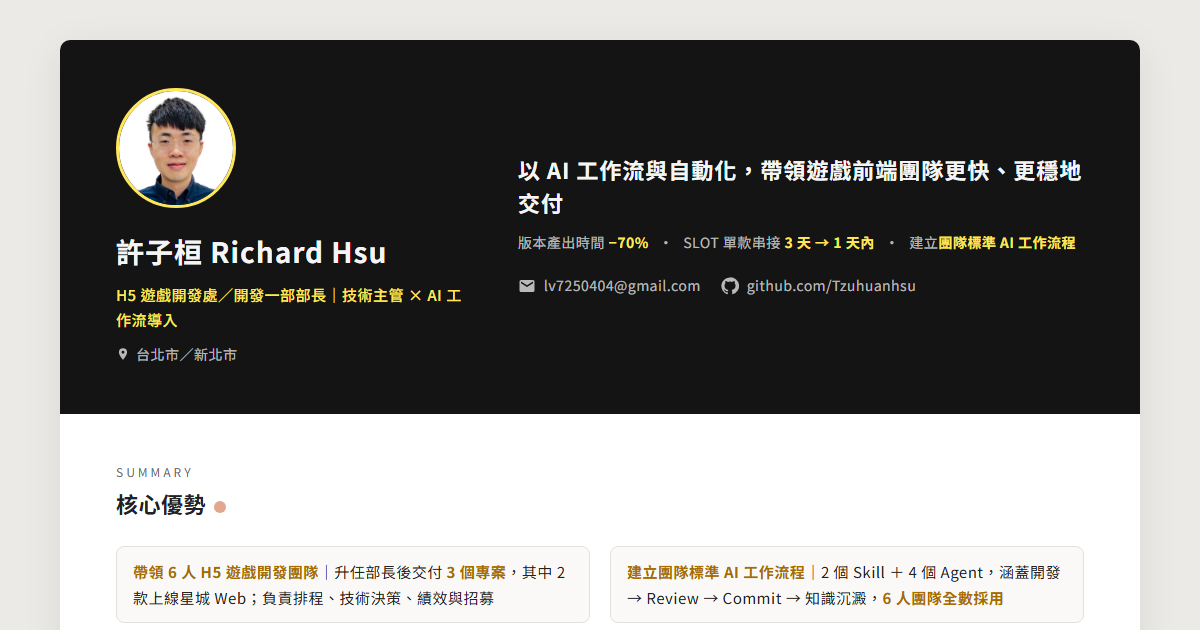
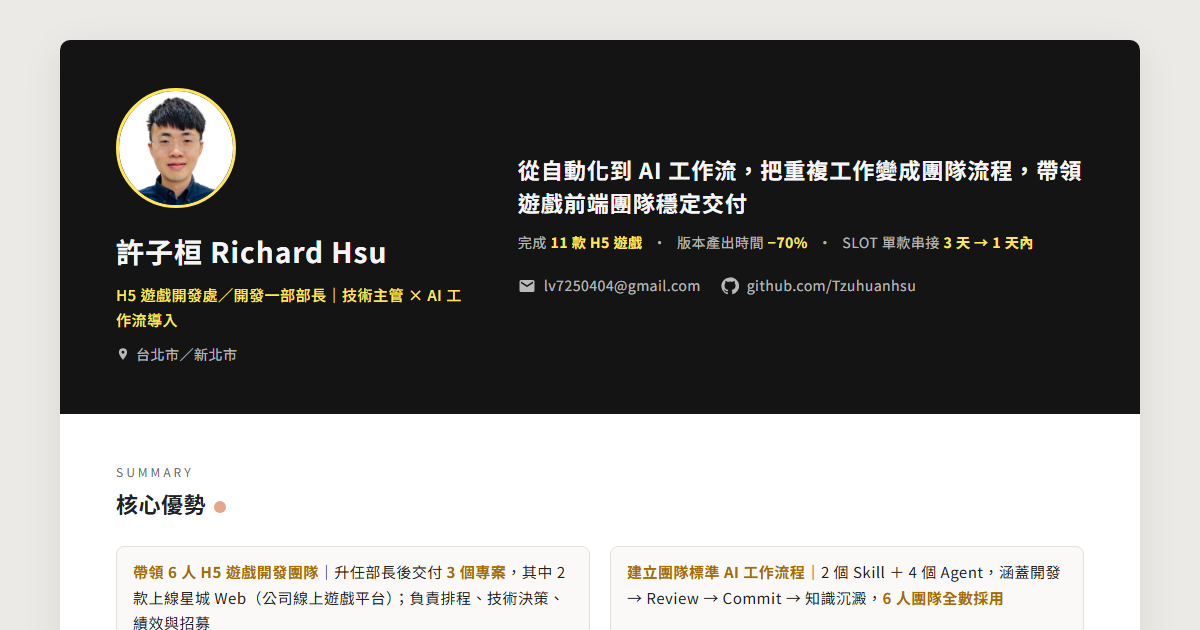
[mod]依外部 review 調整：數字出處、定位句、去重複與 AI 治理
- 經歷補上數字出處：鈊象 2019 版本產出 −70%、網銀 2024 首屏 10→7 秒
- 定位句改為「從自動化到 AI 工作流」，頂部數字改為 11 款 H5、−70%、3→1 天
- 去除重複數字；技術主管經驗改列專案名稱，AI Workflow for Team 改為治理角度
- 鈊象 2016–2021 合併為一列
- 補內部用語背景（星城 Web、部門主管 6 人團隊）
- AI 導入成果新增「AI 使用治理」
- 作品區：流程圖卡連到 Jenkins 簡報並移除重複項，作品集標題與 PDF 一致
- 更新分享預覽圖與描述

Changed region(s): [[0.4317, 0.2413, 0.925, 0.4222], [0.2158, 0.9349, 0.4625, 0.9651], [0.0925, 0.9651, 0.185, 1.0]]

diff --git a/index.html b/index.html
@@ -12,7 +12,7 @@
     <meta property="og:type" content="profile">
     <meta property="og:url" content="https://tzuhuanhsu.github.io/introduction/">
     <meta property="og:title" content="許子桓 Richard Hsu｜H5 遊戲開發部長 / 技術主管">
-    <meta property="og:description" content="以 AI 工作流與自動化，帶領遊戲前端團隊更快、更穩地交付。現任 H5 遊戲開發處開發一部部長，建立團隊標準 AI 工作流程，9 年遊戲前端實務經驗。">
+    <meta property="og:description" content="從自動化到 AI 工作流，把重複工作變成團隊流程，帶領遊戲前端團隊穩定交付。現任 H5 遊戲開發處開發一部部長，建立團隊標準 AI 工作流程，9 年遊戲前端實務經驗。">
     <meta property="og:image" content="https://tzuhuanhsu.github.io/introduction/assets/og-image.png">
     <meta property="og:image:type" content="image/png">
     <meta property="og:image:width" content="1200">
@@ -34,11 +34,11 @@
         </div>
 
         <div class="hero-intro">
-            <p class="tagline">以 AI 工作流與自動化，帶領遊戲前端團隊更快、更穩地交付</p>
+            <p class="tagline">從自動化到 AI 工作流，把重複工作變成團隊流程，帶領遊戲前端團隊穩定交付</p>
             <ul class="hero-proof">
+                <li>完成 <strong>11 款 H5 遊戲</strong></li>
                 <li>版本產出時間 <strong>−70%</strong></li>
                 <li>SLOT 單款串接 <strong>3 天 → 1 天內</strong></li>
-                <li>建立<strong>團隊標準 AI 工作流程</strong></li>
             </ul>
             <ul class="hero-contact">
                 <li>
@@ -64,7 +64,7 @@
             <span class="section-label">Summary</span>
             <h2 class="section-title">核心優勢</h2>
             <ul class="summary-grid">
-                <li><strong>帶領 6 人 H5 遊戲開發團隊</strong>｜升任部長後交付 <strong>3 個專案</strong>，其中 2 款上線星城 Web；負責排程、技術決策、績效與招募</li>
+                <li><strong>帶領 6 人 H5 遊戲開發團隊</strong>｜升任部長後交付 <strong>3 個專案</strong>，其中 2 款上線星城 Web（公司線上遊戲平台）；負責排程、技術決策、績效與招募</li>
                 <li><strong>建立團隊標準 AI 工作流程</strong>｜2 個 Skill ＋ 4 個 Agent，涵蓋開發 → Review → Commit → 知識沉澱，<strong>6 人團隊全數採用</strong></li>
                 <li><strong>自動化與架構提效</strong>｜Jenkins + Python 版本產出時間<strong>減少 70% 以上</strong>；SLOT 公版單款串接 3 天 → <strong>1 天以內</strong></li>
                 <li><strong>線上品質與風險控管</strong>｜白名單先行測試、熱更新／回滾、雙平台上架；首屏載入 10 秒 → <strong>7 秒</strong></li>
@@ -76,7 +76,7 @@
         <section class="section ai">
             <span class="section-label">AI Engineering</span>
             <h2 class="section-title">AI 導入成果</h2>
-            <p class="lead">從「AI 輔助人」到「人輔助 AI」：把團隊開發經驗封裝成 AI 可重複執行的標準流程，AI 負責撰寫與初審，人負責定規格與把關。從 GitHub Copilot Agent 到 Claude Code，<strong>6 人團隊全數納入日常開發</strong>。</p>
+            <p class="lead">從「AI 輔助人」到「人輔助 AI」：把團隊開發經驗封裝成 AI 可重複執行的標準流程，AI 負責撰寫與初審，人負責定規格與把關。工具從 GitHub Copilot Agent 演進到 Claude Code。</p>
 
             <div class="ai-highlight">
                 <h3 class="sub-heading">成果：建立團隊標準 AI 工作流程</h3>
@@ -92,13 +92,14 @@
             <ul class="ai-list">
                 <li><strong>一鍵 Code Review</strong><span>一個指令完成 Review → Commit，審查品質一致</span></li>
                 <li><strong>每日自動審查</strong><span>問題自動通知作者，不必等人工發現</span></li>
-                <li><strong>規格驅動開發（SDD, Spec-Driven Development）</strong><span>先定規格、經人確認後 AI 才動手，依驗收條件驗收</span></li>
+                <li><strong>規格驅動開發（SDD, Spec-Driven Development）</strong><span>先定規格、拆成小 Task，每個 Task 依驗收條件驗收</span></li>
                 <li><strong>AI 操作遊戲編輯器</strong><span>透過 MCP 直接編輯 Cocos Creator 場景與 Prefab</span></li>
                 <li><strong>開發知識沉澱</strong><span>開發決策寫成文件，下次開發自動引用</span></li>
                 <li><strong>企劃參與開發</strong><span>企劃用 AI 在分支上開發，不影響主線</span></li>
                 <li><strong>單一資訊來源</strong><span>專案資訊集中在 README，新人看文件就能上手</span></li>
+                <li class="ai-governance"><strong>AI 使用治理</strong><span>計畫與 Task 未經人同意，AI 不得改動任何檔案；每次 Commit 前都經 Review 與人工確認，以實際結果驗收，不以「AI 說完成」為準</span></li>
             </ul>
-            <p class="note">實作細節（/ts-review、/cocos-develop、SubAgent 與 Context Engineering 設計）請見作品區「AI 工作流作品集」。</p>
+            <p class="note">實作細節（/ts-review、/cocos-develop、SubAgent 與 Context Engineering 設計）請見作品區「AI 輔助開發工作流作品集」。</p>
         </section>
 
         <!-- ===== 技術主管經驗 ===== -->
@@ -110,7 +111,7 @@
                 <div class="group">
                     <h3 class="sub-heading">團隊管理</h3>
                     <ul class="brief-list">
-                        <li><strong>團隊交付</strong><span>升任部長後交付 3 個專案，2 款上線星城 Web</span></li>
+                        <li><strong>團隊交付</strong><span>帶隊完成「啪麻雀」、「神話魚機（冥王）」上線與「麻將之星」改版</span></li>
                         <li><strong>排程與人力調度</strong><span>工時評估、交付承諾、跨專案分配</span></li>
                         <li><strong>招募與績效</strong><span>技術面試、人選評估、一對一回饋</span></li>
                         <li><strong>新人培育</strong><span>上手流程、教學文件與技術輔導</span></li>
@@ -120,7 +121,7 @@
                 <div class="group">
                     <h3 class="sub-heading">技術治理</h3>
                     <ul class="brief-list">
-                        <li><strong>AI Workflow for Team</strong><span>建立團隊標準 AI 工作流程，6 人全數採用</span></li>
+                        <li><strong>AI Workflow for Team</strong><span>制定團隊 AI 開發規範與人工確認門檻，詳見「AI 導入成果」</span></li>
                         <li><strong>開發標準</strong><span>TypeScript 規範、Code Review 清單、架構原則</span></li>
                         <li><strong>SLOT 公版產線</strong><span>單款串接 3 天 → 1 天以內，公版只需改一處</span></li>
                         <li><strong>引擎升級</strong><span>主導 Cocos Creator 2.x → 3.x 升級與風險評估</span></li>
@@ -162,7 +163,7 @@
             <div class="exp-row">
                 <div class="exp-date">2026</div>
                 <div class="exp-body">
-                    <h4 class="exp-role">H5 遊戲開發處／開發一部部長</h4>
+                    <h4 class="exp-role">H5 遊戲開發處／開發一部部長（部門主管，6 人前端團隊）</h4>
                     <ul class="exp-cards">
                         <li><strong>AI 開發導入</strong><span>導入 AI Coding Agent 與「人輔助 AI」工作流，建立團隊與跨職能協作規範</span></li>
                         <li><strong>跨部門自動化</strong><span>協助 QA 建立 GitLab Issue × Google Sheet 整合流程</span></li>
@@ -192,6 +193,7 @@
                     <h4 class="exp-role">4月　加入網銀國際，擔任 Cocos Creator SLOT 前端主要負責人</h4>
                     <ul class="exp-cards">
                         <li><strong>SLOT 開發流程</strong><span>從無到有建置 Cocos Creator SLOT 流程，並持續優化效能</span></li>
+                        <li><strong>首屏載入優化</strong><span>H5 SLOT 首屏載入 <strong>10 秒 → 7 秒</strong></span></li>
                         <li><strong>開發標準</strong><span>制定標準與流程，協助成員解決技術問題</span></li>
                         <li><strong>CI/CD</strong><span>整合 Jenkins 內部開發流程</span></li>
                         <li><strong>Server 串接</strong><span>與 Server 端整合封包</span></li>
@@ -236,56 +238,14 @@
             </div>
 
             <div class="exp-row">
-                <div class="exp-date">2020 – 2021</div>
+                <div class="exp-date">2016 – 2021</div>
                 <div class="exp-body">
-                    <h4 class="exp-role">FHM 遊戲平台 Client 持續開發與維護（Cocos2d-x）</h4>
+                    <h4 class="exp-role">iRich／FHM 遊戲平台 Client（Cocos2d-x）前端工程師</h4>
                     <ul class="exp-cards">
-                        <li><strong>平台迭代</strong><span>功能迭代開發與線上問題排除</span></li>
-                        <li><strong>移植與維運</strong><span>Android／iOS 遊戲移植與版本產出</span></li>
-                        <li><strong>自動化</strong><span>持續維護並擴充 Jenkins + Python 流程</span></li>
-                    </ul>
-                </div>
-            </div>
-
-            <div class="exp-row">
-                <div class="exp-date">2019</div>
-                <div class="exp-body">
-                    <h4 class="exp-role">FHM 遊戲平台 Client（Cocos2d-x）</h4>
-                    <ul class="exp-cards">
-                        <li><strong>更新機制改造</strong><span>結合 Jenkins 與 Python 優化製程，提高更新速度</span></li>
-                        <li><strong>轉化流程</strong><span>遊戲 APP 轉化流程優化</span></li>
-                        <li><strong>移植與開發</strong><span>遊戲移植與平台功能開發、維護</span></li>
-                        <li><strong>專案遷移</strong><span>Android 專案從 Eclipse 遷移至 Android Studio，完成第三方套件整合</span></li>
-                    </ul>
-                </div>
-            </div>
-
-            <div class="exp-row">
-                <div class="exp-date">2018</div>
-                <div class="exp-body">
-                    <h4 class="exp-role">iRich 遊戲平台 Client（Cocos2d-x）</h4>
-                    <ul class="exp-cards">
-                        <li><strong>更新機制</strong><span>更新機制優化</span></li>
-                    </ul>
-                </div>
-            </div>
-
-            <div class="exp-row">
-                <div class="exp-date">2017</div>
-                <div class="exp-body">
-                    <h4 class="exp-role">iRich 遊戲平台 Client（Cocos2d-x）</h4>
-                    <ul class="exp-cards">
-                        <li><strong>前端遊戲工程師</strong><span>遊戲移植與平台功能開發、維護</span></li>
-                    </ul>
-                </div>
-            </div>
-
-            <div class="exp-row">
-                <div class="exp-date">2016</div>
-                <div class="exp-body">
-                    <h4 class="exp-role">進入鈊象電子擔任前端工程師</h4>
-                    <ul class="exp-cards">
-                        <li><strong>SDK 開發</strong><span>線上平台共用工具（SDK）開發</span></li>
+                        <li><strong>版本產出自動化</strong><span>2019　結合 Jenkins 與 Python 改造更新機制，<strong>版本產出時間減少 70% 以上</strong>，並持續維護擴充</span></li>
+                        <li><strong>平台開發與維運</strong><span>平台功能迭代、Android／iOS 遊戲移植與線上問題排除</span></li>
+                        <li><strong>專案遷移</strong><span>2019　Android 專案從 Eclipse 遷移至 Android Studio，完成第三方套件整合</span></li>
+                        <li><strong>轉化流程與共用工具</strong><span>遊戲 APP 轉化流程優化；2016 起開發線上平台共用工具（SDK）</span></li>
                     </ul>
                 </div>
             </div>
@@ -298,20 +258,20 @@
 
             <div class="work-gallery">
                 <a class="work-card" href="./Richard_AI工作流作品集.pdf" target="_blank" rel="noopener">
-                    <img src="./assets/thumb-ai-portfolio.jpg" alt="AI 工作流作品集封面">
+                    <img src="./assets/thumb-ai-portfolio.jpg" alt="AI 輔助開發工作流作品集封面">
                     <div class="work-card-body">
-                        <h3>AI 工作流作品集</h3>
+                        <h3>AI 輔助開發工作流作品集</h3>
                         <p>從「AI 輔助人」到「人輔助 AI」：遊戲前端團隊的 AI 開發工作流設計與導入（經驗 Skill 化／人輔助 AI 開發／跨職能協作）</p>
                     </div>
                 </a>
 
-                <div class="work-card">
+                <a class="work-card" href="https://docs.google.com/presentation/d/1hojj4V9Iqg0YMdWHSESMWYHx7UuU6uyIUZebUBjmw0g/view" target="_blank" rel="noopener">
                     <img src="./assets/cocoscratorFornProcess.png" class="work-card-diagram" alt="Cocos Creator 搭配 Jenkins 與 Python 的自動化建置流程圖">
                     <div class="work-card-body">
-                        <h3>Cocos Creator 自動化建置流程</h3>
-                        <p>Cocos Creator × Jenkins × Python 自動化建置</p>
+                        <h3>Jenkins 自動化建置</h3>
+                        <p>Cocos Creator × Jenkins × Python 自動化建置流程與內部分享簡報</p>
                     </div>
-                </div>
+                </a>
 
                 <a class="work-card" href="https://github.com/Tzuhuanhsu/competitive-analysis/blob/main/SugarTeddy/SugarTeddy.pdf" target="_blank" rel="noopener">
                     <img src="./assets/thumb-competitive.jpg" alt="SLOT 競品分析報告封面">
@@ -326,11 +286,6 @@
                 <div class="work-item">
                     <a href="https://github.com/Tzuhuanhsu/Copilot_Agent" target="_blank" rel="noopener">AI Coding Agent 導入經驗</a>
                     <p>團隊導入 AI Coding Agent 的規範、Agent 設定與實作經驗整理</p>
-                </div>
-
-                <div class="work-item">
-                    <a href="https://docs.google.com/presentation/d/1hojj4V9Iqg0YMdWHSESMWYHx7UuU6uyIUZebUBjmw0g/view" target="_blank" rel="noopener">Jenkins 自動化建置報告</a>
-                    <p>使用 Jenkins 完成遊戲自動化建置的內部分享</p>
                 </div>
 
                 <div class="work-item">

diff --git a/style.css b/style.css
@@ -142,9 +142,10 @@ a {
   white-space: nowrap;
 }
 
-.hero-proof li + li::before {
+/* 分隔點放在項目後面，換行時不會出現在行首 */
+.hero-proof li:not(:last-child)::after {
   content: "·";
-  margin-right: 10px;
+  margin-left: 10px;
 }
 
 .hero-proof strong {
@@ -367,6 +368,11 @@ a {
 .ai-list span {
   color: var(--text-muted);
   font-size: 14px;
+}
+
+/* AI 使用治理：深色邊線，與一般成果區隔 */
+.ai-list li.ai-governance {
+  border-left-color: var(--text);
 }
 
 .ai-list li:last-child:nth-child(odd) {
@@ -680,7 +686,7 @@ a.work-card:hover {
     gap: 2px;
   }
 
-  .hero-proof li + li::before {
+  .hero-proof li:not(:last-child)::after {
     content: none;
   }
 
